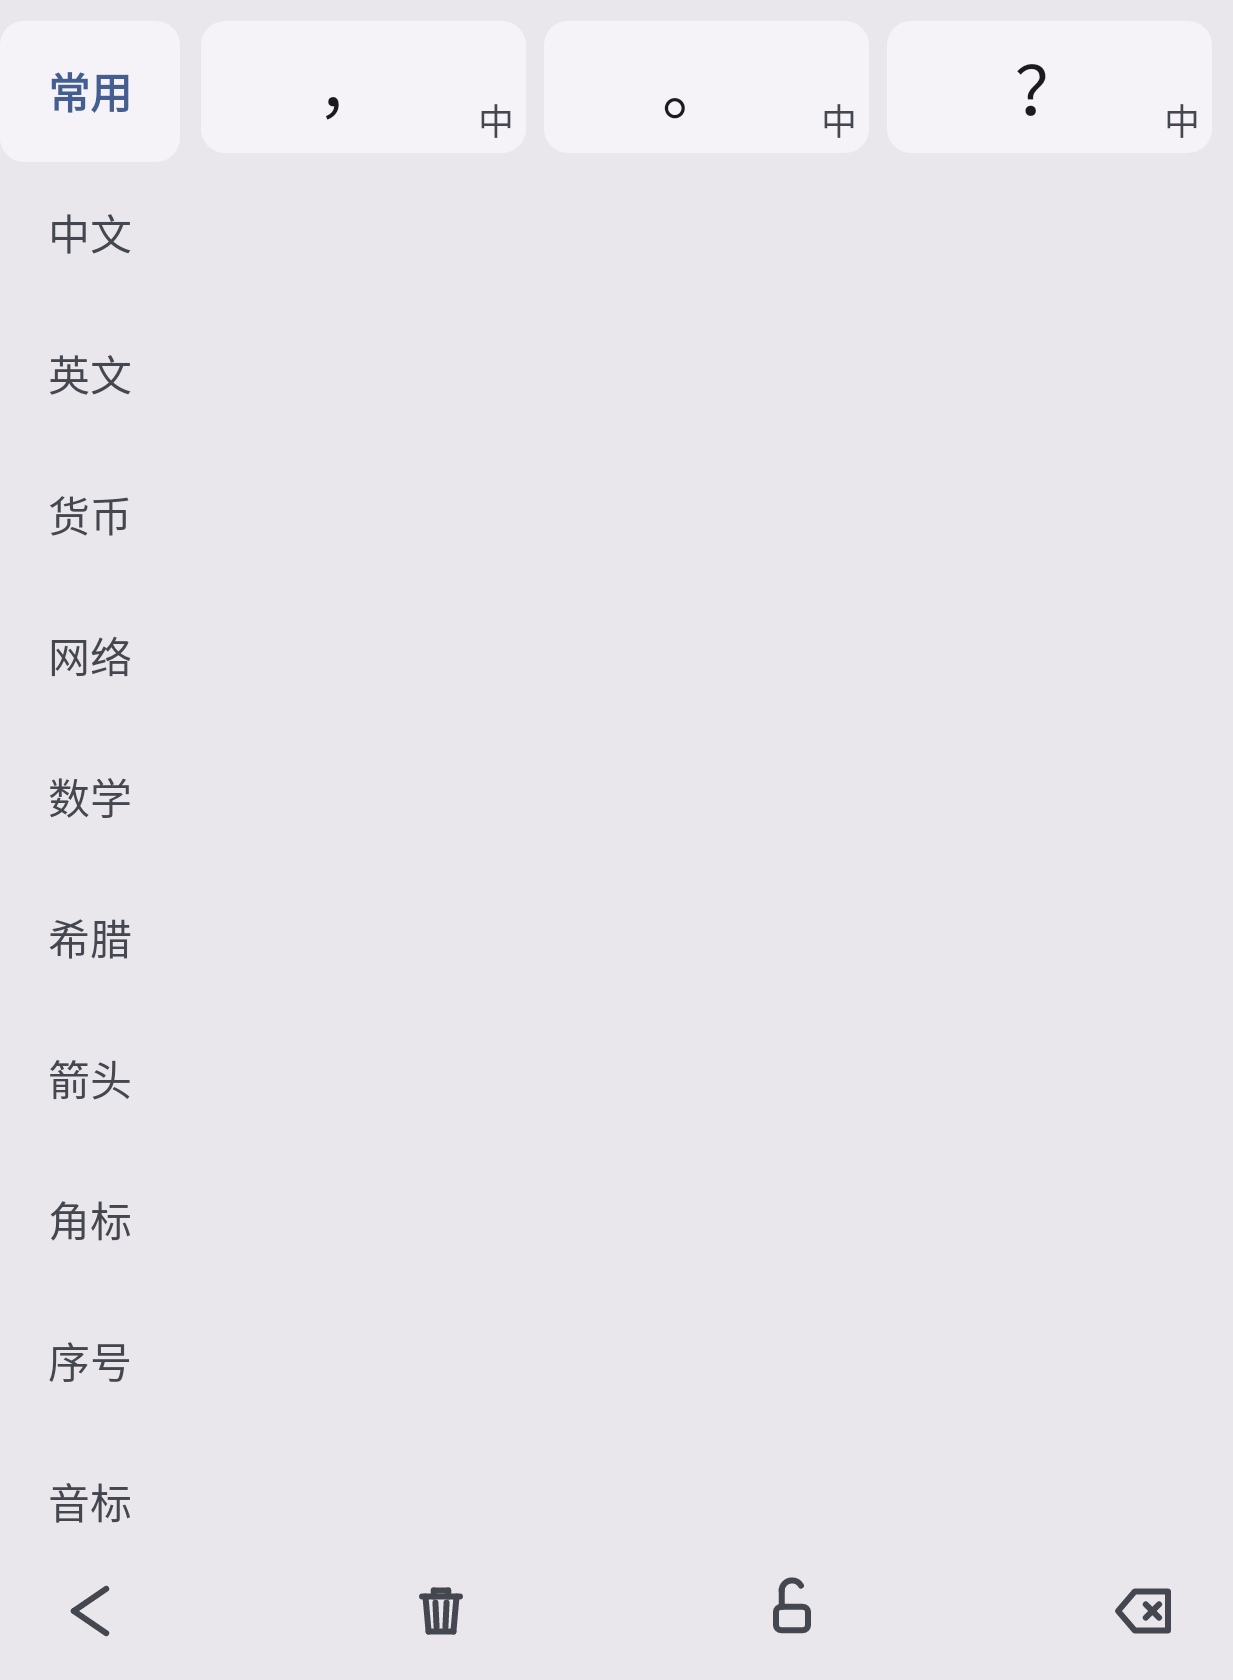
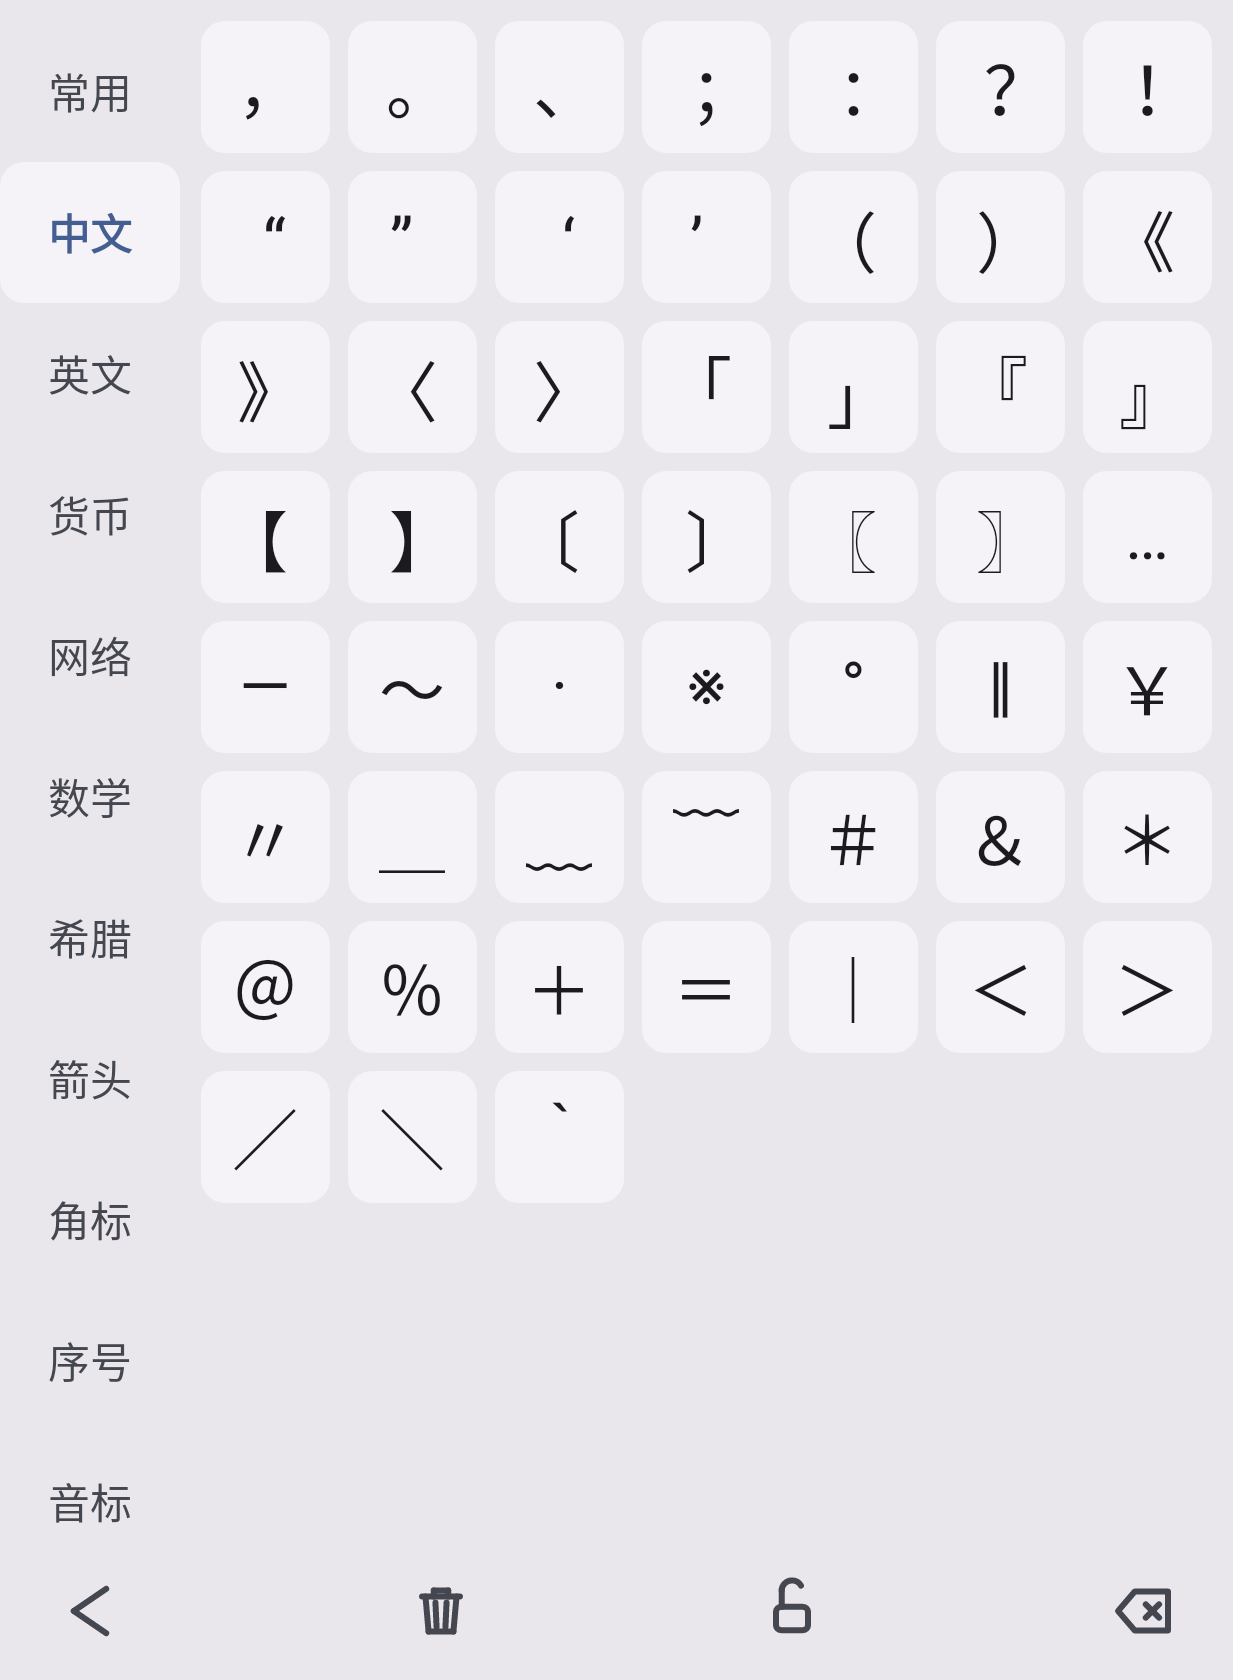
Open a filled category in the symbol screenshots
The shot was taken on the recent tab, which the fixture seeds with three
marks, so the panel was a row of four cells over an empty grid. Open the
Chinese punctuation category instead: it is the page this keyboard is
built around, and its marks fill every visible row.

diff --git a/app/src/test/java/com/aegis/ime/ime/BilingualScreenshotTest.kt b/app/src/test/java/com/aegis/ime/ime/BilingualScreenshotTest.kt
@@ -187,7 +187,7 @@ class BilingualScreenshotTest {
             SymbolsView(ctx).apply {
                 recentProvider = { symbols }
                 applyPalette(pal)
-                openCategoryForTest(0)
+                openCategoryForTest(1)
             },
             (560 * density).toInt(), dir, "symbols.png",
         )
